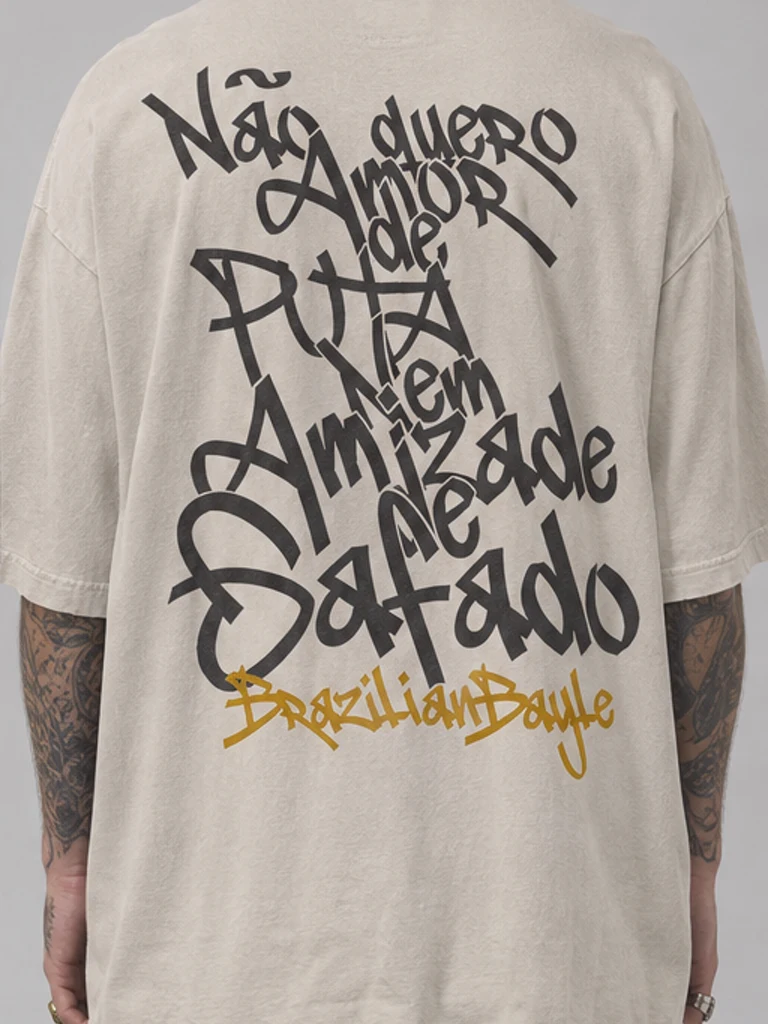
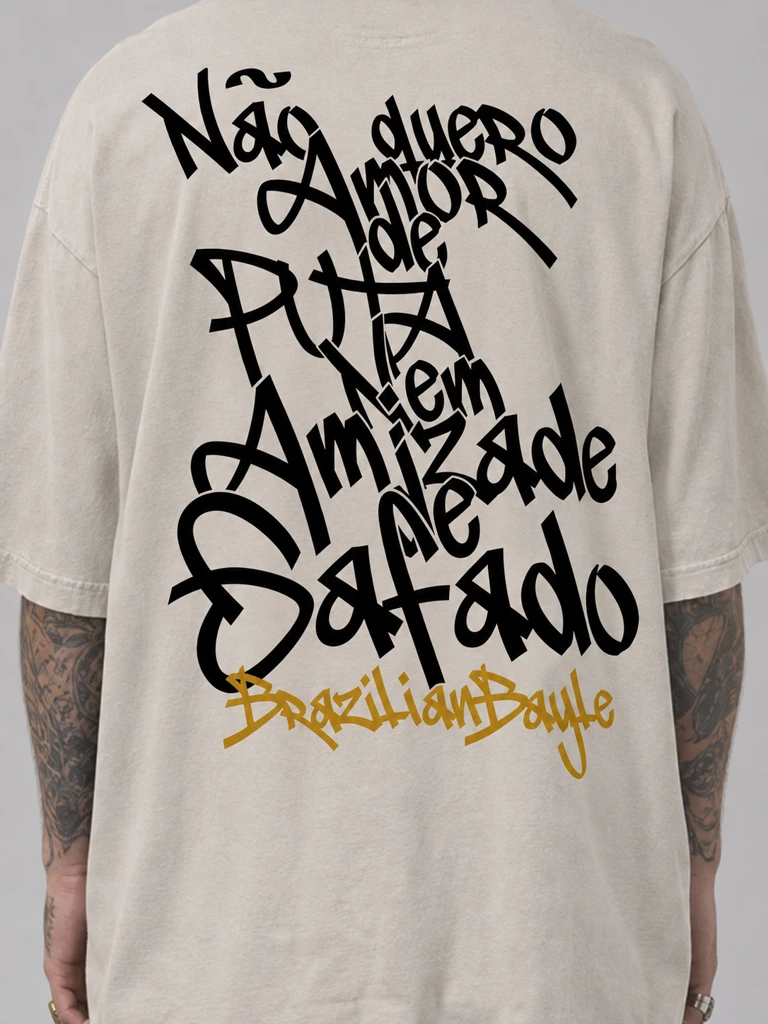
Stabilize shirt preview and darken Grafite off-white print

Changed region(s): [[0.1875, 0.0625, 0.8438, 0.7188], [0.9062, 0.9688, 0.9375, 1.0]]

diff --git a/app.js b/app.js
@@ -950,34 +950,15 @@ if (matchMedia('(prefers-reduced-motion: reduce)').matches) document.querySelect
   const ctx = canvas.getContext('2d');
   const hint3d = dialog.querySelector('.bayle-3d-hint');
   const loading3d = dialog.querySelector('.bayle-3d-loading');
-  const reduceMotion = matchMedia('(prefers-reduced-motion: reduce)').matches;
-  /* A foto do card "vira" o zoom de frente e costas (View Transitions);
-     sem suporte ou com menos movimento, o modal só aparece com um fade curto. */
-  const SHIRT = 'bayle-shirt';
-  const DECODE_MAX_MS = 400;
-  const AUTO_FLIP_MS = 1400; // tempo mostrando a frente antes de virar sozinho para as costas
-  const canMorph = () => 'startViewTransition' in document && !reduceMotion;
-  let source = null, busy = false, id = '', title = '', autoFlipTimer = 0;
-  const morph = (from, to, change) => {
-    if (!canMorph() || !from || !to || busy) { change(); return; }
-    busy = true;
-    from.style.viewTransitionName = SHIRT;
-    const t = document.startViewTransition(() => { from.style.viewTransitionName = ''; to.style.viewTransitionName = SHIRT; change(); });
-    t.finished.finally(() => { to.style.viewTransitionName = ''; busy = false; });
-  };
-  const showPhoto = async (view, { animate } = {}) => {
-    clearTimeout(autoFlipTimer);
+  let id = '', title = '';
+  const showPhoto = view => {
+    threeD.stop();
     panel3d.hidden = true; stage.classList.remove('is-3d'); image.hidden = false;
     const next = '/assets/shop/bayle/' + id + '-' + view + '.webp' + (view === 'costas' && ['03-vintage-culture','08-grafite','09-nem-bateu'].includes(id) ? '?v=mockups-v2' : '');
     tabs.forEach(b => b.setAttribute('aria-pressed', String(b.dataset.bayleView === view)));
     if (image.src.endsWith(next)) return;
     image.alt = title + ': ' + (view === 'frente' ? 'vista de frente com o papagaio no peito' : 'vista de costas com a estampa');
-    if (animate && canMorph() && !busy) {
-      busy = true;
-      image.style.viewTransitionName = SHIRT;
-      const t = document.startViewTransition(() => { image.src = next; });
-      t.finished.finally(() => { image.style.viewTransitionName = ''; busy = false; });
-    } else image.src = next;
+    image.src = next;
   };
   const threeD = (() => {
     let frames = [], total = 0, pathTpl = '', ready = false, loadedCount = 0;
@@ -1026,34 +1007,22 @@ if (matchMedia('(prefers-reduced-motion: reduce)').matches) document.querySelect
     const frames = Number(stage.dataset.frames || 0), pathTpl = stage.dataset.path || '';
     if (frames && pathTpl) threeD.load(frames, pathTpl);
   };
-  const open = async button => {
-    if (busy || dialog.open) return;
-    source = button.closest('.shop-product')?.querySelector('.shop-photo') || button;
+  const open = button => {
+    if (dialog.open) return;
     id = button.dataset.baylePreview; title = button.dataset.bayleTitle;
     dialog.querySelector('h2').textContent = title;
-    const frames = Number(button.dataset.bayleGiroFrames || 0), pathTpl = button.dataset.bayleGiroPath || '';
-    stage.dataset.frames = frames; stage.dataset.path = pathTpl;
-    tab3d.hidden = !(frames && pathTpl);
-    image.hidden = false; panel3d.hidden = true; stage.classList.remove('is-3d');
-    image.alt = title + ': vista de frente com o papagaio no peito';
-    image.src = '/assets/shop/bayle/' + id + '-frente.webp';
-    tabs.forEach(b => b.setAttribute('aria-pressed', String(b.dataset.bayleView === 'frente')));
-    await Promise.race([image.decode().catch(() => {}), new Promise(r => setTimeout(r, DECODE_MAX_MS))]);
-    morph(source, image, () => dialog.showModal());
-    /* Mostra a frente primeiro e vira sozinha para as costas, como quando se pega a peça na mão. */
-    if (!reduceMotion) autoFlipTimer = setTimeout(() => showPhoto('costas', { animate: true }), AUTO_FLIP_MS);
+    stage.dataset.frames = button.dataset.bayleGiroFrames || '';
+    stage.dataset.path = button.dataset.bayleGiroPath || '';
+    tab3d.hidden = !(stage.dataset.frames && stage.dataset.path);
+    showPhoto('frente');
+    dialog.showModal();
   };
-  const close = () => {
-    if (!dialog.open || busy) return;
-    clearTimeout(autoFlipTimer);
-    const target = source && source.isConnected ? source : null;
-    image.hidden = false; panel3d.hidden = true;
-    morph(image, target, () => dialog.close());
-  };
+  const close = () => dialog.close();
+  dialog.addEventListener('close', () => threeD.stop());
   document.querySelectorAll('[data-bayle-preview]').forEach(button => button.addEventListener('click', () => open(button)));
   tabs.forEach(button => button.addEventListener('click', () => {
     const view = button.dataset.bayleView;
-    if (view === '3d') showThreeD(); else showPhoto(view, { animate: true });
+    if (view === '3d') showThreeD(); else showPhoto(view);
   }));
   dialog.querySelector('.bayle-preview-close').addEventListener('click', close);
   dialog.addEventListener('cancel', event => { event.preventDefault(); close(); });

diff --git a/commerce.js b/commerce.js
@@ -4,7 +4,7 @@
  const API='https://bereyocdqacudfvazdpa.supabase.co/functions/v1/brb-checkout';
  const CART='brb-cart-v1', ORDER='brb-checkout-order-v1', QUOTE='brb-quote-v1';
  const colors={preta:'Preta','off-white':'Off-white',cinza:'Cinza'};
- const variantPhoto=(id,color)=>'/assets/shop/bayle/'+id+(color==='cinza'||color==='off-white'?'-'+color:'')+'-costas.webp'+(color!=='cinza' && ['03-vintage-culture','08-grafite','09-nem-bateu'].includes(id) ? '?v=mockups-v2' : '');
+ const variantPhoto=(id,color)=>'/assets/shop/bayle/'+id+(color==='cinza'||color==='off-white'?'-'+color:'')+'-costas.webp'+(id==='08-grafite' && color==='off-white' ? '?v=grafite-ink-v3' : color!=='cinza' && ['03-vintage-culture','08-grafite','09-nem-bateu'].includes(id) ? '?v=mockups-v2' : '');
  const money=value=>new Intl.NumberFormat('pt-BR',{style:'currency',currency:'BRL'}).format(value/100);
  const el=id=>document.getElementById(id);
  /* Medidas da camiseta oversized (PR #11), exibidas na sacola e no checkout. */

diff --git a/styles.css b/styles.css
@@ -3946,3 +3946,9 @@ a.ticket-card:hover{border-color:#c9a45c88}
 .ticket-actions .ticket-field :is(input[type=email],input[type=tel]){box-sizing:border-box;width:100%;min-width:0;min-height:54px;font-size:16px;padding:15px;border:1px solid #c9a45c80;border-radius:8px;background:#111;color:#f6f4ef}
 .ticket-checkout-step{color:#d2b375;font-weight:600}
 @media(max-width:600px){.ticket-field-row{flex-direction:column}.ticket-field-row input{width:100%;min-height:54px;font-size:16px}.ticket-actions{align-items:stretch}}
+
+/* Keep the product preview centered and the photo frame stable between views. */
+.bayle-preview[open]{position:fixed;inset:0;margin:auto;width:min(720px,calc(100vw - 24px));background:#151515;color:#f6f4ef}
+.bayle-preview-stage:not(.is-3d){height:min(62dvh,620px);display:grid;place-items:center}
+.bayle-preview .bayle-preview-img{width:100%;height:100%;object-fit:contain}
+.bayle-preview .bayle-preview-close{color:inherit;border-color:#c9a45c}
